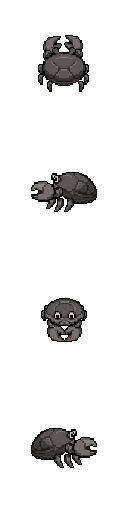
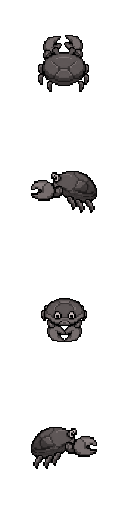
fixed some bugs grey crab not fucky working animations for all!

Changed region(s): [[0.25, 0.8125, 0.75, 0.9375], [0.25, 0.3125, 0.75, 0.4375]]

diff --git a/src/lib/Character/AnimatedDataCharacter.cpp b/src/lib/Character/AnimatedDataCharacter.cpp
@@ -340,7 +340,8 @@ void AnimatedDataCharacter::update(float dt, v2 moveVector)
         {
             printf("AnimatedDataCharacter: Action animation '%s' is not in this character's animation table\n", actionAnimation.c_str());
         }
-        if (animationTable->hasAnimation(actionAnimation) && currentAnimation != actionAnimation)
+        // if (animationTable->hasAnimation(actionAnimation) && currentAnimation != actionAnimation)
+        if (animationTable->hasAnimation(actionAnimation))
         {
             currentAnimation = actionAnimation;
             currentFrame = 0;
